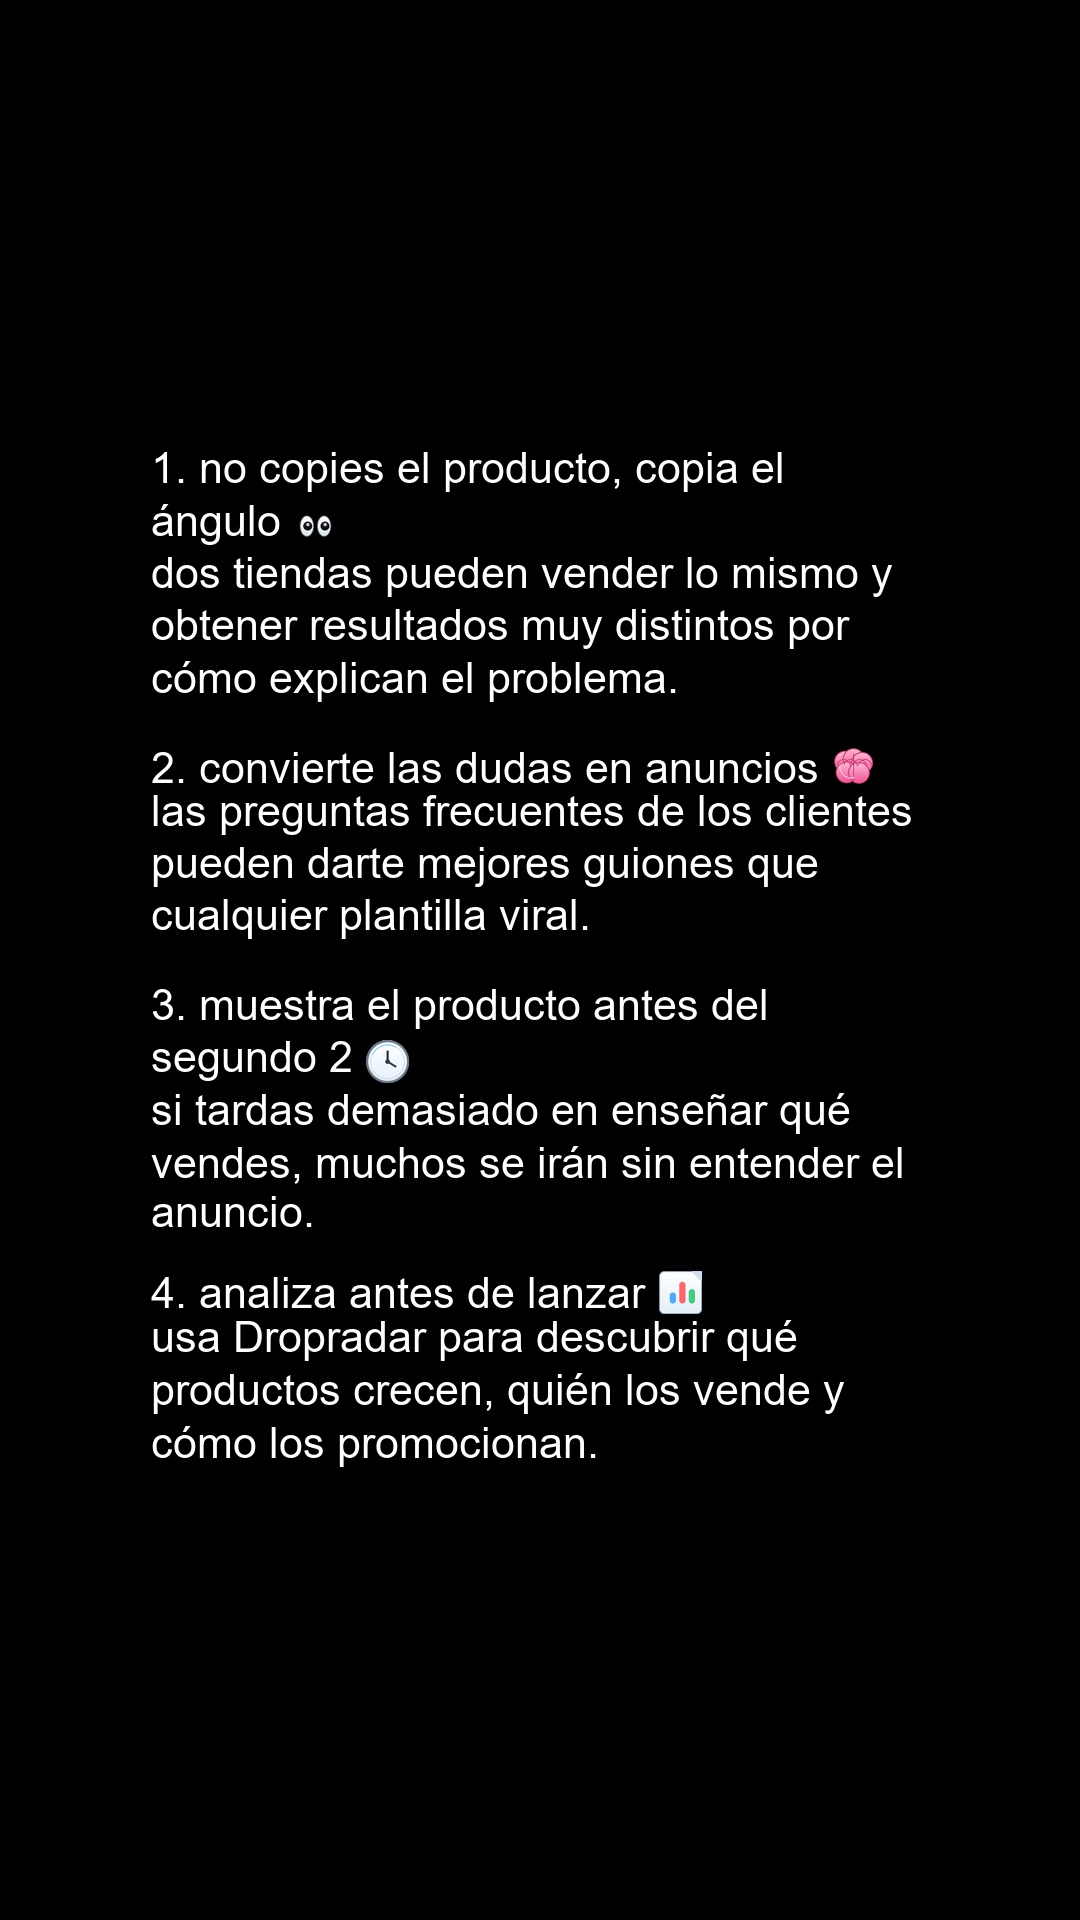
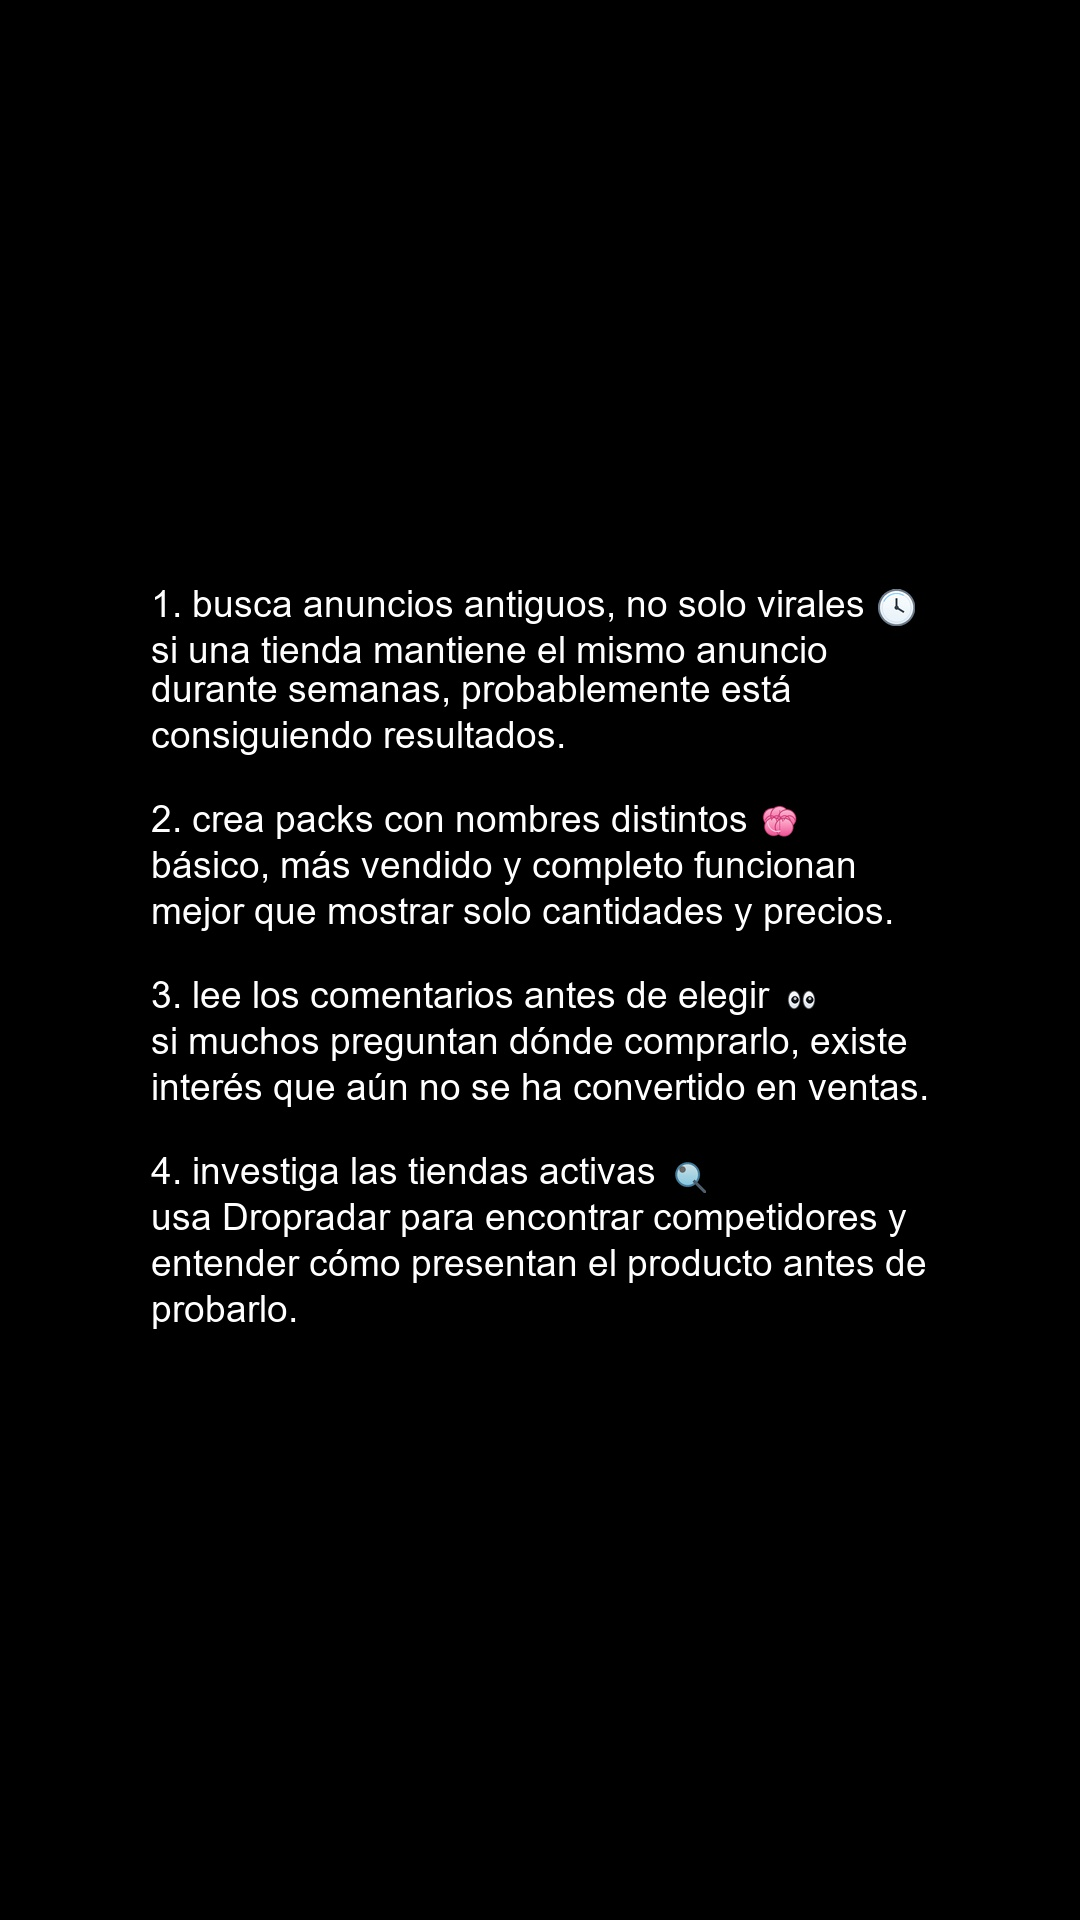
c

Changed region(s): [[0.1222, 0.2188, 0.8556, 0.7812], [0.5806, 0.2188, 0.7333, 0.25], [0.4278, 0.2188, 0.55, 0.25]]

diff --git a/app/render.py b/app/render.py
@@ -410,6 +410,7 @@ class VideoRenderer:
             emoji_space = self._advice_flat_emoji_space(font_size, width)
             blocks: list[tuple[list[str], int]] = []
             heights: list[int] = []
+            titles_fit_one_line = True
             for index, tip in enumerate(tips, start=1):
                 title_lines = self._wrap_flat_advice_title(
                     f"{index}. {tip.title}",
@@ -419,6 +420,11 @@ class VideoRenderer:
                     draw,
                     stroke_width=stroke_width,
                 )
+                # The emoji belongs to the title line.  Keep reducing the
+                # shared font size until the complete title can stay on one
+                # line; wrapping it would leave the emoji detached below it.
+                if len(title_lines) != 1:
+                    titles_fit_one_line = False
                 body_lines = self._wrap_text(
                     tip.body,
                     font,
@@ -441,7 +447,7 @@ class VideoRenderer:
             selected_font = font
             selected_blocks = blocks
             selected_heights = heights
-            if total_height <= int(height * 0.72):
+            if titles_fit_one_line and total_height <= int(height * 0.72):
                 break
 
         if selected_font is None:
